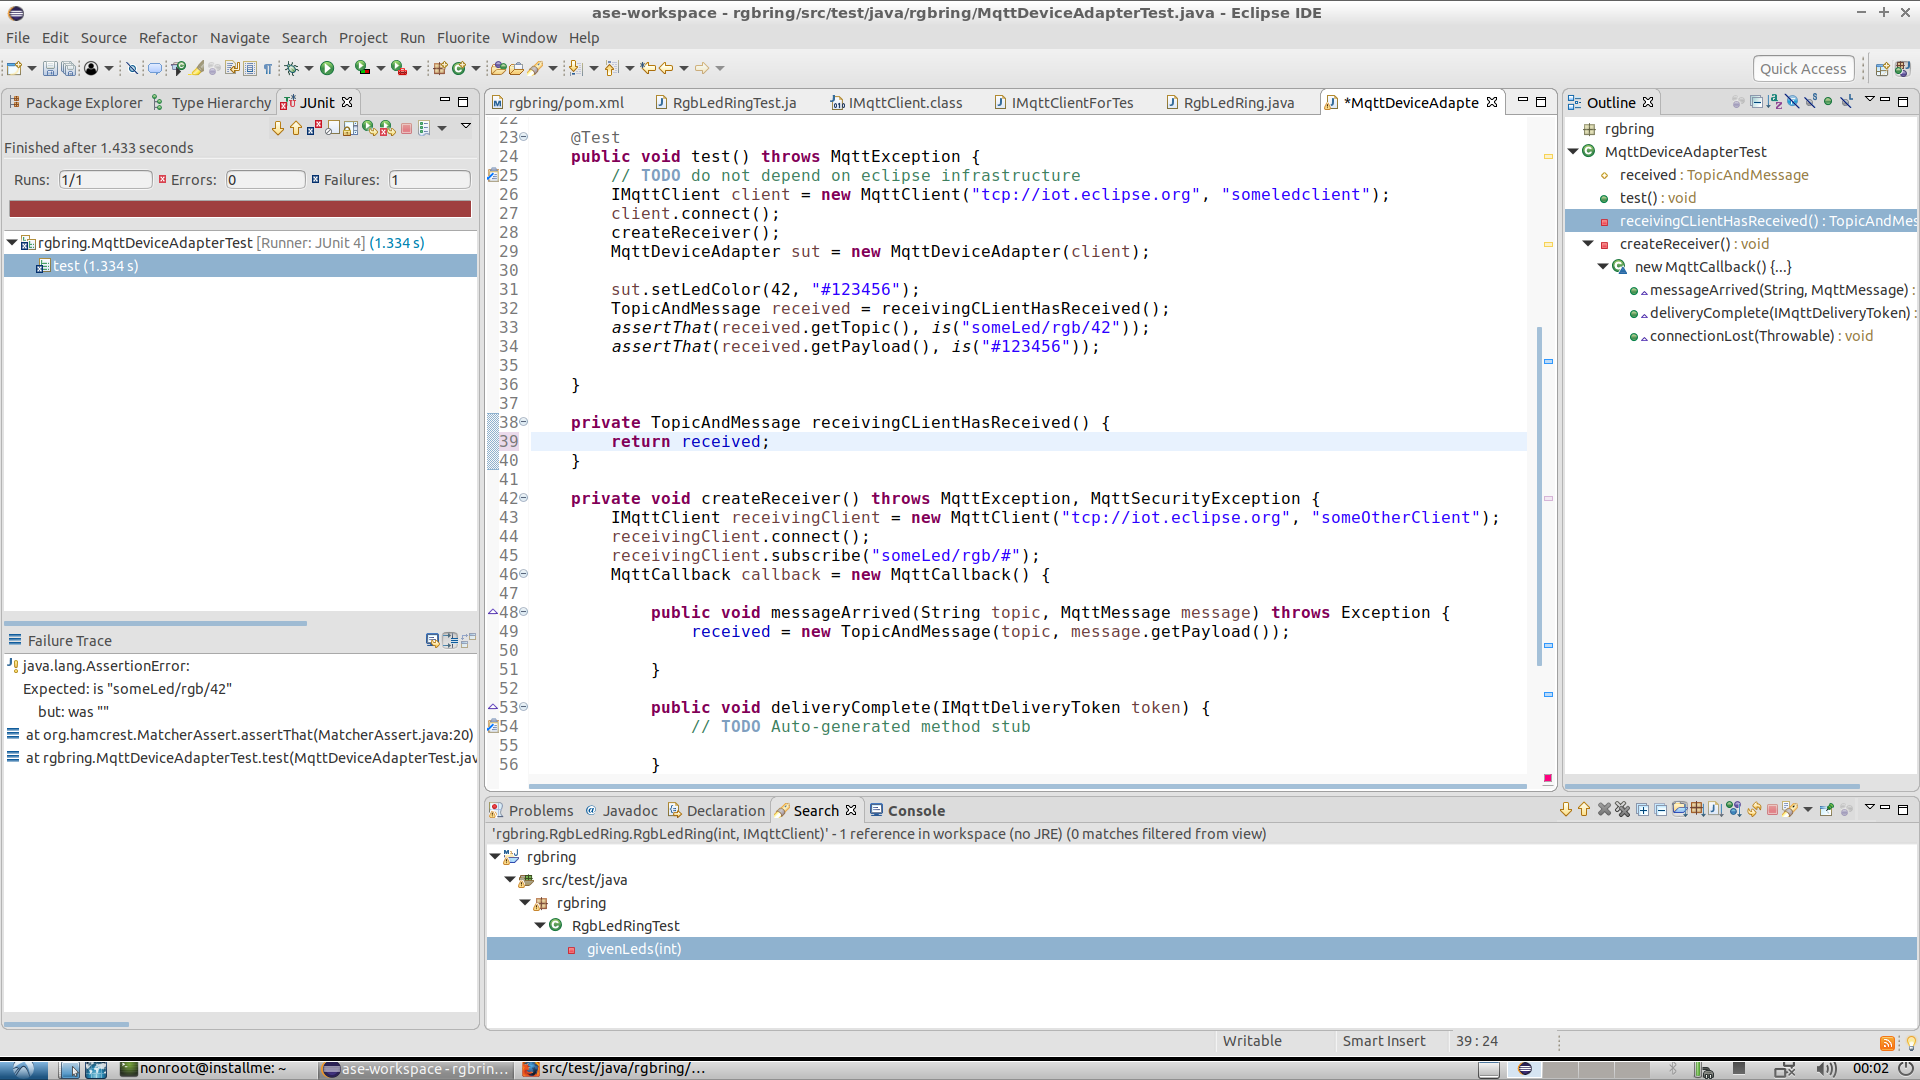
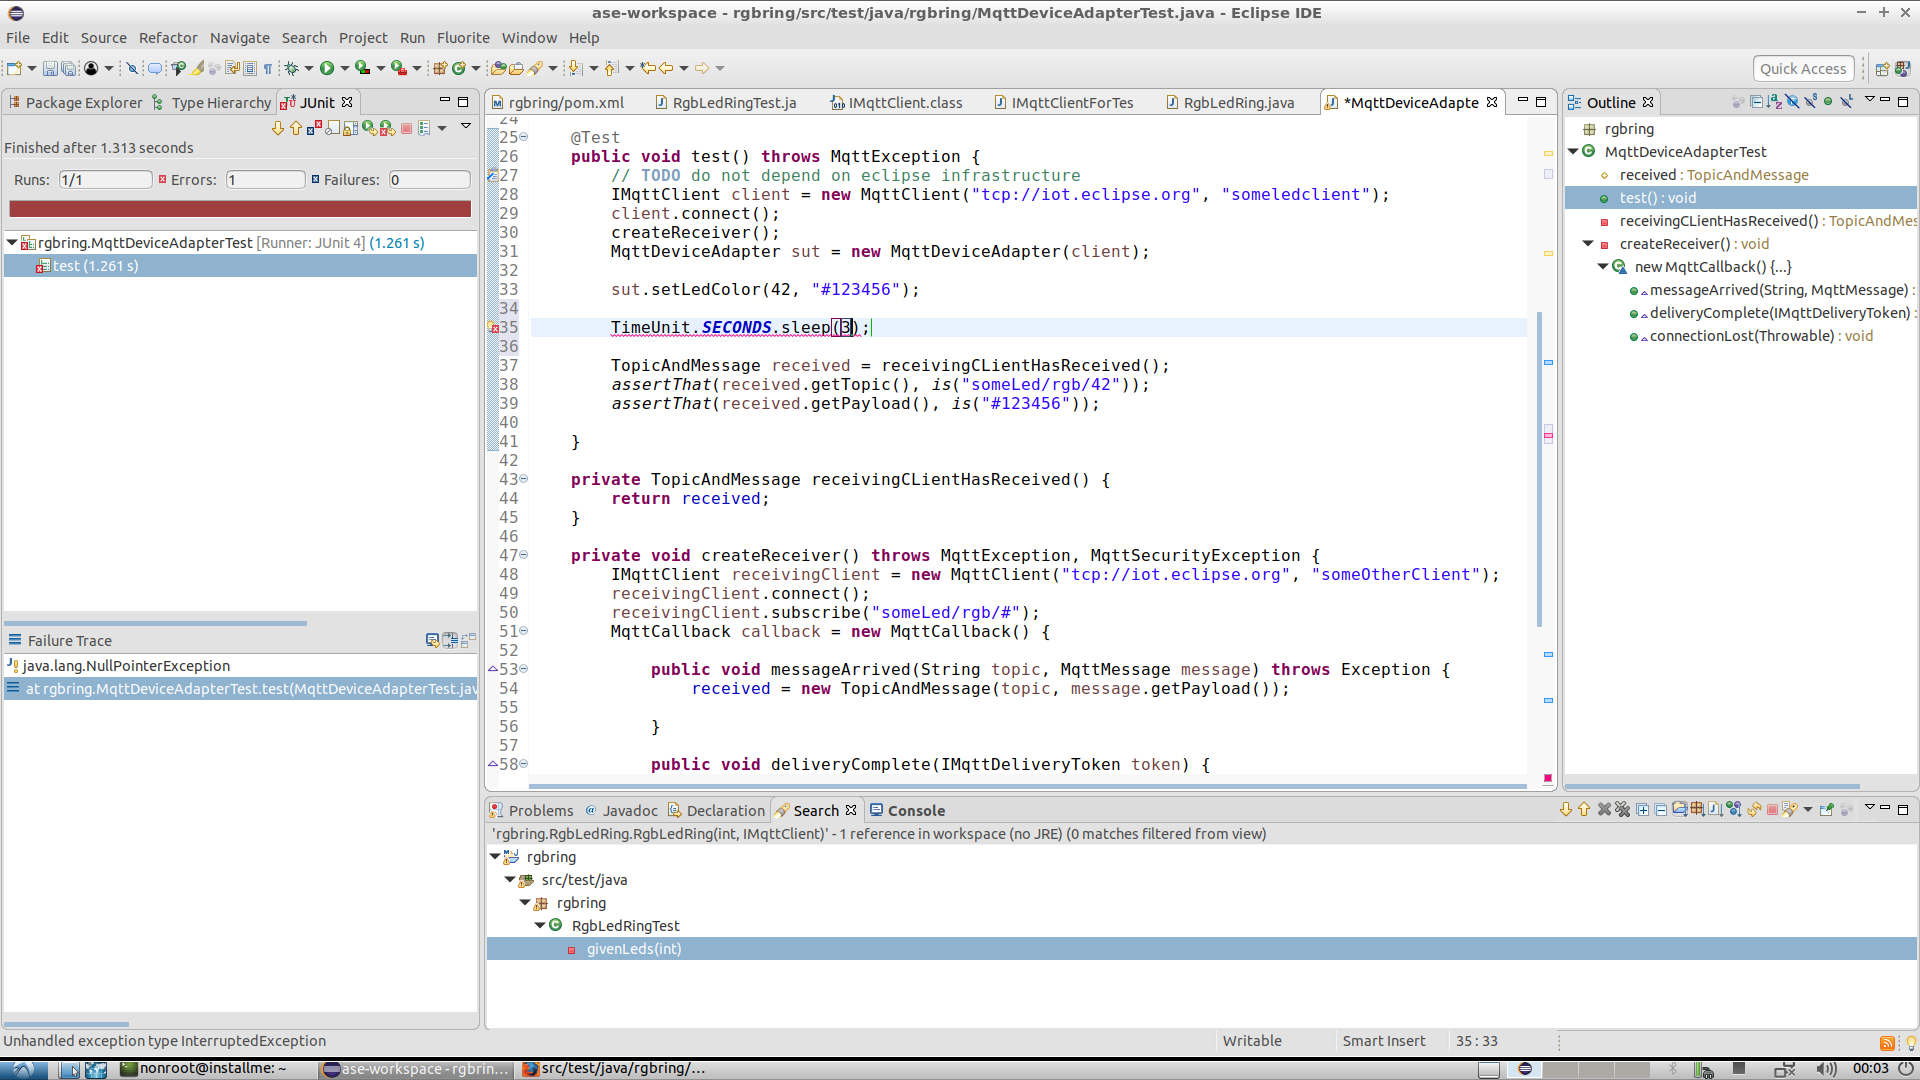
autocommit on change

diff --git a/src/test/java/rgbring/MqttDeviceAdapterTest.java b/src/test/java/rgbring/MqttDeviceAdapterTest.java
@@ -4,6 +4,8 @@ import static org.hamcrest.CoreMatchers.is;
 import static org.junit.Assert.assertThat;
 import static org.junit.Assert.fail;
 
+import java.util.concurrent.TimeUnit;
+
 import org.eclipse.paho.client.mqttv3.IMqttClient;
 import org.eclipse.paho.client.mqttv3.IMqttDeliveryToken;
 import org.eclipse.paho.client.mqttv3.MqttCallback;
@@ -29,6 +31,9 @@ public class MqttDeviceAdapterTest {
 		MqttDeviceAdapter sut = new MqttDeviceAdapter(client);
 
 		sut.setLedColor(42, "#123456");
+		
+		TimeUnit.SECONDS.sleep(3);
+		
 		TopicAndMessage received = receivingCLientHasReceived();
 		assertThat(received.getTopic(), is("someLed/rgb/42"));
 		assertThat(received.getPayload(), is("#123456"));
